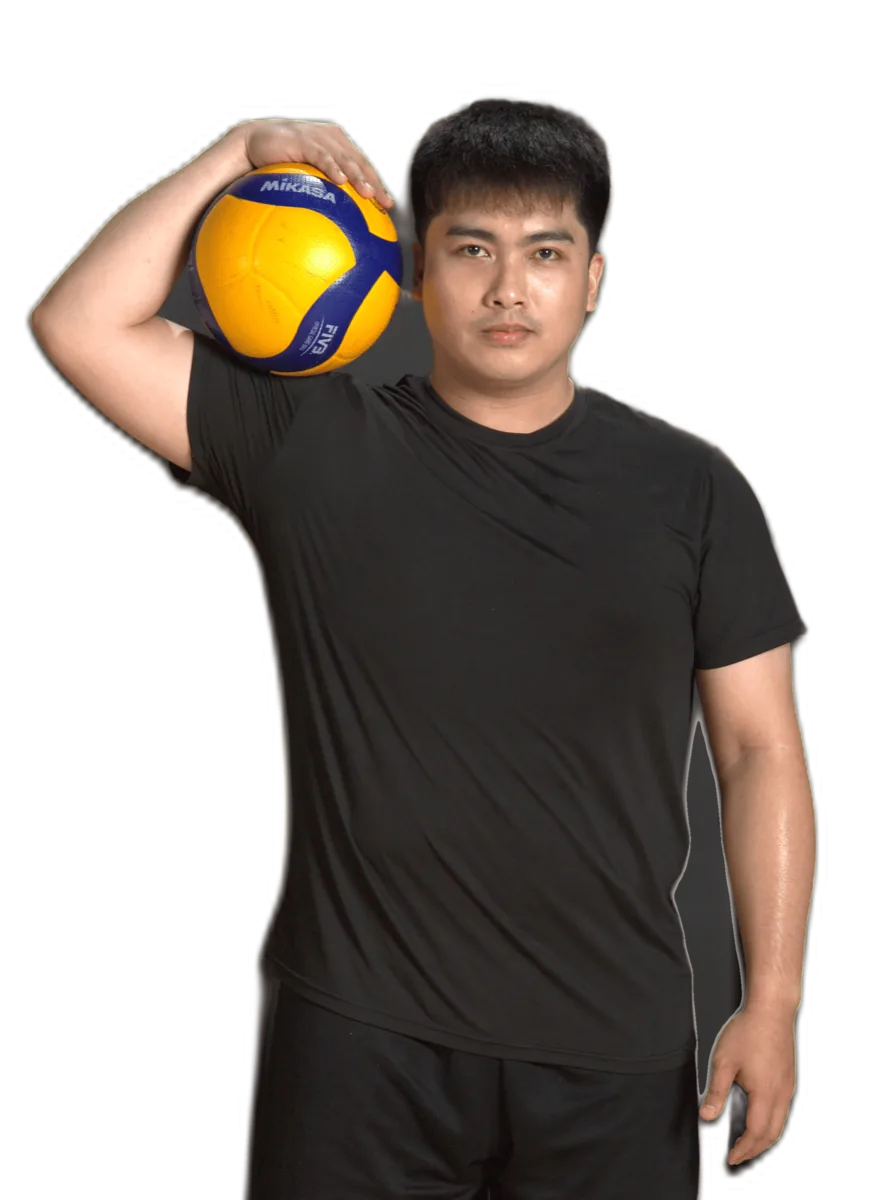
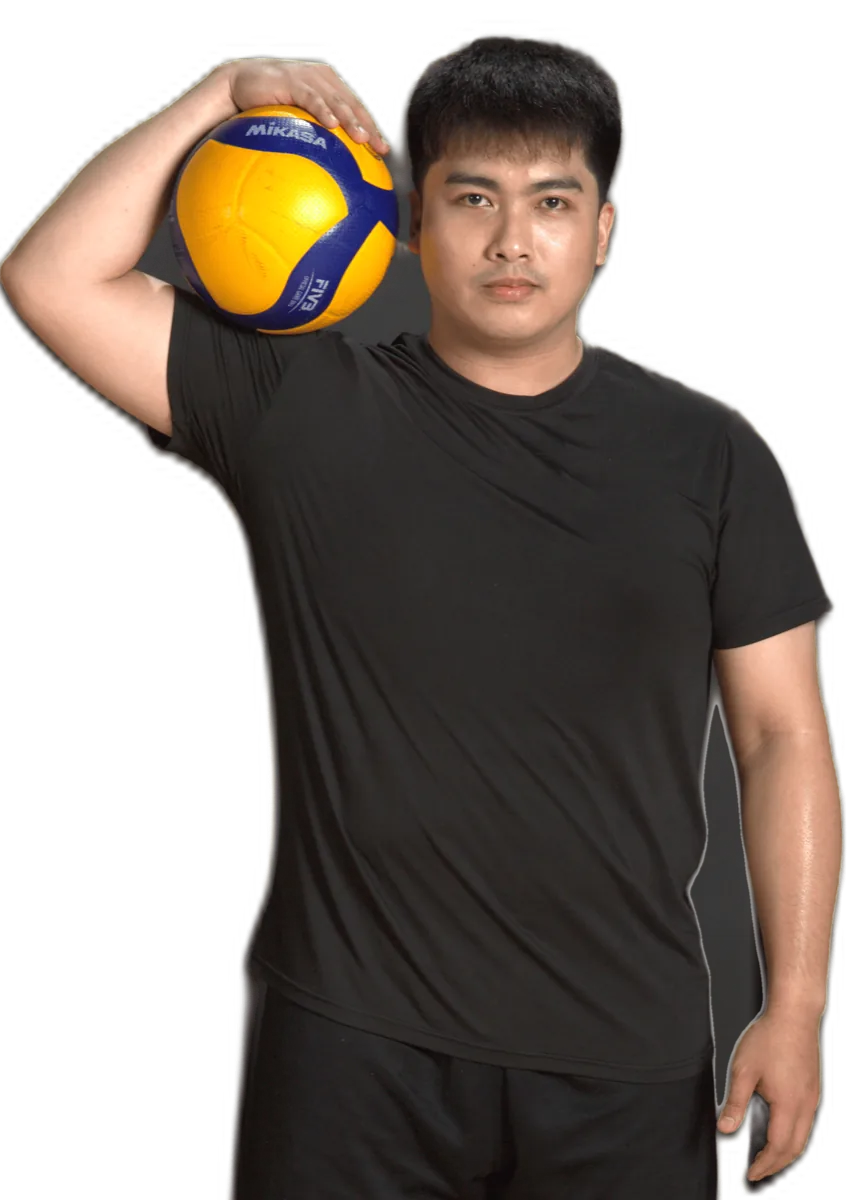
Re-encode the updated cutouts and scale them all to one height
Picks up the new tighter crops from assets/player-photos/extracted, all
exported at 1200px tall (606-888 wide). 1.1MB of WebP for the eight.

Sizing now keys on height alone, so every player renders at the same
scale and their heads line up across the row — nobody looks further away
than their team-mates. max-width: 100% was what broke that: a
broad-stanced figure would hit the width cap and shrink below full
height, landing a whole card-scale smaller than its neighbours.

The wider stances now run past their slot and .team-card's existing
overflow trims them at the card edge, which reads as a poster bleed.
Widest crop is about 20% off one side, and the cutouts still clear the
name rail at every breakpoint.

diff --git a/mvl/gametime.html b/mvl/gametime.html
@@ -9,7 +9,7 @@
 <link rel="preconnect" href="https://fonts.googleapis.com">
 <link rel="preconnect" href="https://fonts.gstatic.com" crossorigin>
 <link href="https://fonts.googleapis.com/css2?family=Anton&family=Archivo:wght@400;600;700;800;900&display=swap" rel="stylesheet">
-<link rel="stylesheet" href="/mvl/css/style.css?v=team-fold5">
+<link rel="stylesheet" href="/mvl/css/style.css?v=player-scale">
 <script src="/mvl/js/site-config.js"></script>
 <script src="/mvl/js/analytics.js"></script>
 <script src="/mvl/js/nav.js"></script>
@@ -277,7 +277,7 @@
   </div>
 </footer>
 
-<script src="/mvl/js/league-data.js?v=team-fold5"></script>
+<script src="/mvl/js/league-data.js?v=player-scale"></script>
 <script src="/mvl/js/marquee.js"></script>
 <script src="/mvl/js/supabase-config.js"></script>
 <!-- data-version is the cache key for the entry script public-data.js
@@ -285,7 +285,7 @@
      this has to change: a returning visitor holding the old main.js under
      the previous key would load it alongside marquee.js and hit duplicate
      top-level declarations, killing the whole entry script. -->
-<script src="/mvl/js/public-data.js?v=team-fold5" data-entry="main" data-version="team-fold5"></script>
+<script src="/mvl/js/public-data.js?v=player-scale" data-entry="main" data-version="player-scale"></script>
 <script src="/mvl/js/faq.js"></script>
 </body>
 </html>

diff --git a/mvl/admin.html b/mvl/admin.html
@@ -4,7 +4,7 @@
 <meta charset="UTF-8"><meta name="viewport" content="width=device-width,initial-scale=1">
 <meta name="robots" content="noindex,nofollow"><meta name="referrer" content="no-referrer"><title>MVL Admin</title>
 <link rel="icon" type="image/svg+xml" href="/mvl/assets/metarice-icon.svg">
-<link rel="stylesheet" href="/mvl/css/style.css?v=team-fold5">
+<link rel="stylesheet" href="/mvl/css/style.css?v=player-scale">
 </head>
 <body class="admin-page">
 <header class="admin-topbar"><a href="/mvl/index.html"><img src="/mvl/assets/hero-mvl-2026-logo.png" alt="MVL 2026"></a><button id="signOutBtn" class="admin-link is-hidden" type="button">Sign out</button></header>
@@ -68,5 +68,5 @@
     <a id="emergencyCallLink" class="cta cta--primary admin-contact-call is-hidden" href="#"><span aria-hidden="true">☎</span> Call mobile number</a>
   </div>
 </dialog>
-<script src="https://cdn.jsdelivr.net/npm/@supabase/supabase-js@2"></script><script src="/mvl/js/supabase-config.js"></script><script src="/mvl/js/league-data.js?v=team-fold5"></script><script src="/mvl/js/admin.js?v=team-fold5"></script>
+<script src="https://cdn.jsdelivr.net/npm/@supabase/supabase-js@2"></script><script src="/mvl/js/supabase-config.js"></script><script src="/mvl/js/league-data.js?v=player-scale"></script><script src="/mvl/js/admin.js?v=player-scale"></script>
 </body></html>

diff --git a/mvl/videos.html b/mvl/videos.html
@@ -9,7 +9,7 @@
 <link rel="preconnect" href="https://fonts.googleapis.com">
 <link rel="preconnect" href="https://fonts.gstatic.com" crossorigin>
 <link href="https://fonts.googleapis.com/css2?family=Anton&family=Archivo:wght@400;600;700;800;900&display=swap" rel="stylesheet">
-<link rel="stylesheet" href="/mvl/css/style.css?v=team-fold5">
+<link rel="stylesheet" href="/mvl/css/style.css?v=player-scale">
 <script src="/mvl/js/site-config.js"></script>
 <script src="/mvl/js/analytics.js"></script>
 <script src="/mvl/js/nav.js"></script>
@@ -112,9 +112,9 @@
   </div>
 </footer>
 
-<script src="/mvl/js/league-data.js?v=team-fold5"></script>
+<script src="/mvl/js/league-data.js?v=player-scale"></script>
 <script src="/mvl/js/marquee.js"></script>
 <script src="/mvl/js/supabase-config.js"></script>
-<script src="/mvl/js/public-data.js?v=team-fold5" data-entry="videos" data-version="team-fold5"></script>
+<script src="/mvl/js/public-data.js?v=player-scale" data-entry="videos" data-version="player-scale"></script>
 </body>
 </html>

diff --git a/mvl/css/style.css b/mvl/css/style.css
@@ -4173,11 +4173,18 @@ body:not(.admin-page) .field {
   justify-content: flex-end;
   pointer-events: none;
 }
+/* Every cutout is exported at the same pixel height with a tight crop, so
+   sizing purely on height renders them all at one scale — heads line up across
+   the row and nobody looks further away than their team-mates. Width is left
+   to each figure's own build, which means the broader stances run wider than
+   the slot; they are allowed to, and .team-card's overflow trims the excess at
+   the card edge. Capping the width instead is what threw the scale off, since
+   a wide figure would shrink below full height to fit. */
 .team-card-player {
   height: 100%;
   width: auto;
-  max-width: 100%;
-  object-fit: contain;
+  max-width: none;
+  flex: none;
   /* the cutouts are bottom-cropped at the waist or knee, so they read as
      standing on the card edge rather than floating */
   object-position: bottom center;

diff --git a/mvl/schedule.html b/mvl/schedule.html
@@ -9,7 +9,7 @@
 <link rel="preconnect" href="https://fonts.googleapis.com">
 <link rel="preconnect" href="https://fonts.gstatic.com" crossorigin>
 <link href="https://fonts.googleapis.com/css2?family=Anton&family=Archivo:wght@400;600;700;800;900&display=swap" rel="stylesheet">
-<link rel="stylesheet" href="/mvl/css/style.css?v=team-fold5">
+<link rel="stylesheet" href="/mvl/css/style.css?v=player-scale">
 <script src="/mvl/js/site-config.js"></script>
 <script src="/mvl/js/analytics.js"></script>
 <script src="/mvl/js/nav.js"></script>
@@ -102,6 +102,6 @@
 <script src="/mvl/js/league-data.js"></script>
 <script src="/mvl/js/marquee.js"></script>
 <script src="/mvl/js/supabase-config.js"></script>
-<script src="/mvl/js/public-data.js?v=team-fold5" data-entry="schedule" data-version="team-fold5"></script>
+<script src="/mvl/js/public-data.js?v=player-scale" data-entry="schedule" data-version="player-scale"></script>
 </body>
 </html>

diff --git a/mvl/waiver.html b/mvl/waiver.html
@@ -9,7 +9,7 @@
 <link rel="preconnect" href="https://fonts.googleapis.com">
 <link rel="preconnect" href="https://fonts.gstatic.com" crossorigin>
 <link href="https://fonts.googleapis.com/css2?family=Anton&family=Archivo:wght@400;600;700;800;900&display=swap" rel="stylesheet">
-<link rel="stylesheet" href="/mvl/css/style.css?v=team-fold5">
+<link rel="stylesheet" href="/mvl/css/style.css?v=player-scale">
 <script src="/mvl/js/site-config.js"></script>
 <script src="/mvl/js/analytics.js"></script>
 <script src="/mvl/js/nav.js"></script>
@@ -210,6 +210,6 @@
 <script src="/mvl/js/league-data.js"></script>
 <script src="/mvl/js/marquee.js"></script>
 <script src="/mvl/js/supabase-config.js"></script>
-<script src="/mvl/js/waiver.js?v=team-fold5"></script>
+<script src="/mvl/js/waiver.js?v=player-scale"></script>
 </body>
 </html>

diff --git a/mvl/checkin.html b/mvl/checkin.html
@@ -9,7 +9,7 @@
 <link rel="preconnect" href="https://fonts.googleapis.com">
 <link rel="preconnect" href="https://fonts.gstatic.com" crossorigin>
 <link href="https://fonts.googleapis.com/css2?family=Anton&family=Archivo:wght@400;600;700;800;900&display=swap" rel="stylesheet">
-<link rel="stylesheet" href="/mvl/css/style.css?v=team-fold5">
+<link rel="stylesheet" href="/mvl/css/style.css?v=player-scale">
 <script src="/mvl/js/site-config.js"></script>
 <script src="/mvl/js/analytics.js"></script>
 <script src="/mvl/js/nav.js"></script>

diff --git a/mvl/scoreboard-control.html b/mvl/scoreboard-control.html
@@ -48,7 +48,7 @@
   </main>
   <section id="controlError" class="control-error is-hidden"><h2>Control link unavailable</h2><p id="controlErrorMessage">Ask an MVL admin for a new scoreboard control link.</p></section>
   <script src="/mvl/js/supabase-config.js"></script>
-  <script src="/mvl/js/league-data.js?v=team-fold5"></script>
+  <script src="/mvl/js/league-data.js?v=player-scale"></script>
   <script src="/mvl/js/scoreboard-control.js?v=game-scores"></script>
 </body>
 </html>
